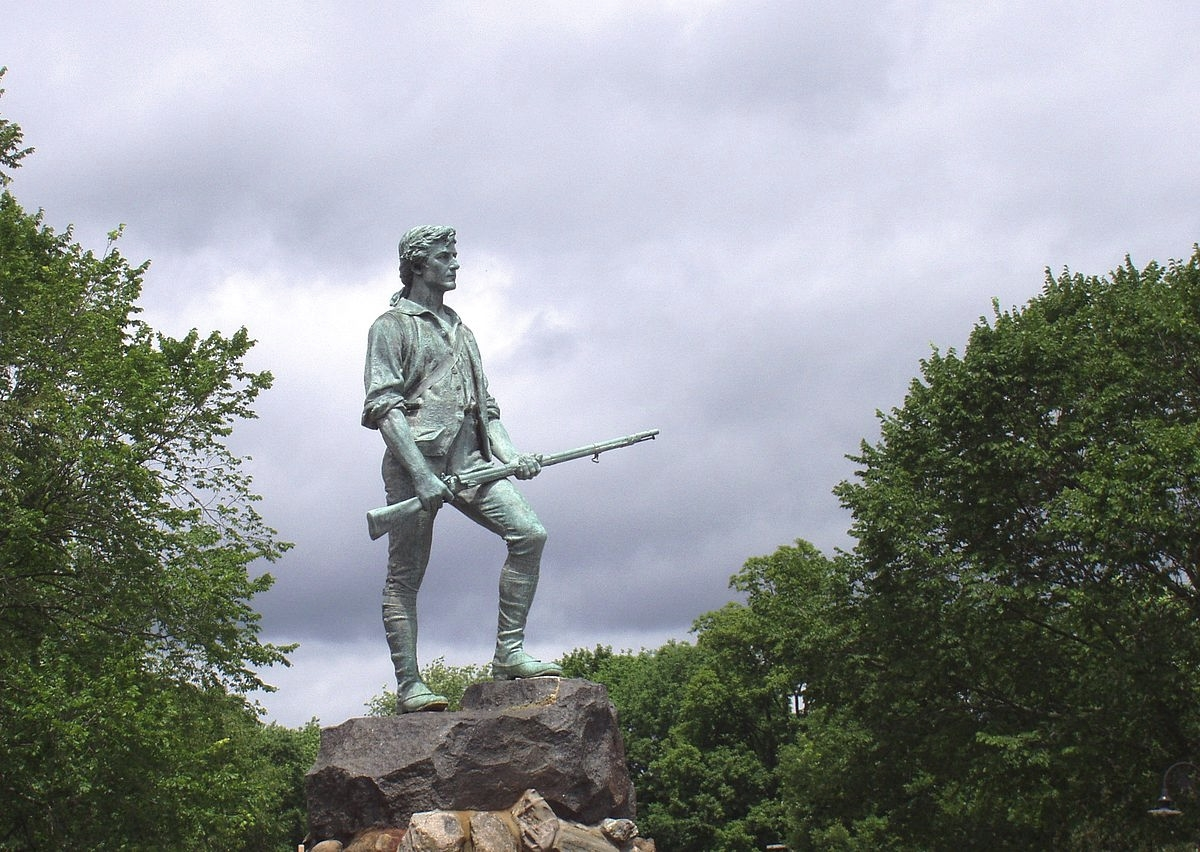
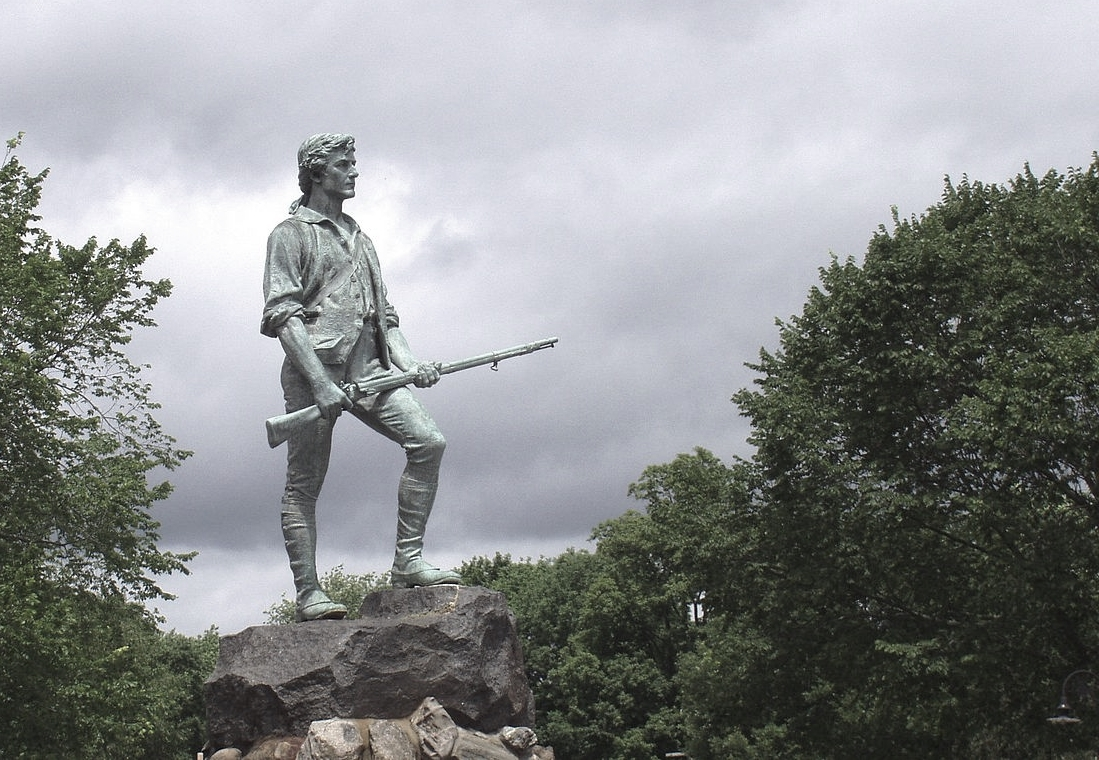
added styles, changed colors, added image

diff --git a/stylesheets/style.css b/stylesheets/style.css
@@ -894,7 +894,7 @@ textarea {
   line-height: inherit; }
 
 a {
-  color: #555555;
+  color: #7594e5;
   text-decoration: none; }
   a:hover, a:focus {
     color: #2a6496;
@@ -916,7 +916,7 @@ img {
   height: auto; }
 
 .img-rounded {
-  border-radius: 6px; }
+  border-radius: none; }
 
 .img-thumbnail {
   padding: 4px;
@@ -2352,7 +2352,7 @@ select[multiple].input-sm {
   padding: 10px 16px;
   font-size: 18px;
   line-height: 1.33;
-  border-radius: 6px; }
+  border-radius: none; }
 
 select.input-lg {
   height: 46px;
@@ -2679,7 +2679,7 @@ select[multiple].input-lg {
     background-color: white; }
 
 .btn-link {
-  color: #555555;
+  color: #7594e5;
   font-weight: normal;
   cursor: pointer;
   border-radius: 0; }
@@ -2701,7 +2701,7 @@ select[multiple].input-lg {
   padding: 10px 16px;
   font-size: 18px;
   line-height: 1.33;
-  border-radius: 6px; }
+  border-radius: none; }
 
 .btn-sm {
   padding: 5px 10px;
@@ -3107,7 +3107,7 @@ input[type="button"].btn-block {
         cursor: not-allowed; }
   .nav .open > a, .nav .open > a:hover, .nav .open > a:focus {
     background-color: #999999;
-    border-color: #555555; }
+    border-color: #7594e5; }
   .nav .nav-divider {
     height: 1px;
     margin: 9px 0;
@@ -3204,7 +3204,7 @@ input[type="button"].btn-block {
   padding: 30px;
   margin-bottom: 30px;
   color: inherit;
-  background-color: #eeeeee; }
+  background-color: rgba(255, 255, 255, 0.7); }
   .jumbotron h1,
   .jumbotron .h1 {
     color: inherit; }
@@ -3213,9 +3213,9 @@ input[type="button"].btn-block {
     font-size: 21px;
     font-weight: 200; }
   .jumbotron > hr {
-    border-top-color: #d5d5d5; }
+    border-top-color: rgba(230, 230, 230, 0.7); }
   .container .jumbotron {
-    border-radius: 6px; }
+    border-radius: none; }
   .jumbotron .container {
     max-width: 100%; }
   @media screen and (min-width: 768px) {
@@ -3270,6 +3270,10 @@ input[type="button"].btn-block {
     .top, footer {
       margin-top: 74px; } }
 
+footer {
+  font-size: 16px;
+  color: rgba(255, 255, 255, 0.65); }
+
 .logo {
   font-family: Intro, Avenir, Century Gothic, "Helvetica Neue", Helvetica, Arial, sans-serif;
   letter-spacing: 0.05em; }
@@ -3279,3 +3283,14 @@ body {
 
 .description {
   line-height: 1.6em; }
+
+.social {
+  margin-top: 25px;
+  margin-bottom: 0;
+  font-size: 18px;
+  color: #999999; }
+  @media (min-width: 992px) {
+    .social {
+      text-align: left; } }
+  .social a {
+    color: #999999; }

diff --git a/index.html b/index.html
@@ -16,14 +16,14 @@
 </head>
 
 <body>
-  <!-- <img src='images/minuteman.jpg' class='img-responsive' style='-webkit-filter: blur(30px);position: fixed; z-index: -1;width:100%; top: 0;'>
--->   
+ <img src='images/minuteman.jpg' class='img-responsive' style='-webkit-filter: blur(10px);position: fixed; z-index: -1;width:100%; top: 0;'>
 
-<!-- <header class="jumbotron text-center nav-container"> -->
-    <!-- <h1 class='logo'><i class='fa fa-thumbs-o-up' style='padding-right:0.2em'></i><div style='display: inline-block; -webkit-transform: scale(1.1,1.3);'>L</div>EX<span style=''><div style='display: inline-block; -webkit-transform: scale(1.1,1.3);'>H</div>ACK</span></h1> -->
-<div class="container top">
+
+ <!-- <header class="jumbotron text-center nav-container"> -->
+ <!-- <h1 class='logo'><i class='fa fa-thumbs-o-up' style='padding-right:0.2em'></i><div style='display: inline-block; -webkit-transform: scale(1.1,1.3);'>L</div>EX<span style=''><div style='display: inline-block; -webkit-transform: scale(1.1,1.3);'>H</div>ACK</span></h1> -->
+ <div class="container top">
   <header class="jumbotron text-center nav-container">
-    <h1 class='logo'><i class='fa fa-thumbs-o-up' style='padding-right:0.2em'></i><span style='font-size:78px;'>L</span>EX<span style=''><span style='font-size: 78px;'>H</span>ACK</span></h1>
+    <h1 class='logo'><i class='fa fa-compass' style='padding-right:0.2em;'></i><span style='font-size:1.15em'>L</span>EX<span style=''><span style='color:#F2B500;'><span style='font-size:1.15em'>H</span>ACK</span></span></h1>
     <div class='description'>
       <p><em>a hackathon for high schoolers</em></p>
       <p>Feb 29th @ LHS Field House</p>
@@ -36,14 +36,17 @@
       <li><a href="#">Sponsors</a></li>
       <li><a href="#">Contact</a></li>
     </ul>
-  </header>
+    <div class="social">
+     <a href="http://google.com"><i class="fa fa-google-plus-square"></i></a> &nbsp <a href="http://twitter.com"><i class="fa fa-twitter"></i></a> &nbsp <a href="http://facebook.com"><i class="fa fa-facebook-square"></i></a> &nbsp &nbsp #lexhack &nbsp #lexgo
+   </div>
+ </header>
 
-  <section>
-  </section>
+ <section>
+ </section>
 
-  <footer class='text-center'>
-    <p>&copy; LexHack 2014</p>
-  </footer>
+ <footer class='text-center'>
+  <p>&copy; LexHack 2014</p>
+</footer>
 
 </div>
 

diff --git a/stylesheets/_components.scss b/stylesheets/_components.scss
@@ -51,6 +51,8 @@ $lato-font: "Lato", "Helvetica Neue", Helvetica, Arial, sans-serif;
 
 footer {
 	@extend .top;
+	font-size: 16px;
+	color: rgba(255, 255, 255, 0.65);
 }
 
 .logo {
@@ -64,4 +66,19 @@ body {
 
 .description {
 	line-height: 1.6em;
+}
+
+.social {
+	margin-top: 25px;
+	// padding: 5px;
+	margin-bottom: 0;
+	font-size: 18px;
+	@media (min-width: $screen-md-min) {
+		text-align: left;
+	}
+	// text-align: left;
+	color: $gray-light;
+	a {
+		color: $gray-light;
+	}
 }

diff --git a/stylesheets/_variables.scss b/stylesheets/_variables.scss
@@ -1,9 +1,13 @@
 $icon-font-path: "../fonts/bootstrap/";
 
-$link-color: $gray;
+// $link-color: $gray;
+// $link-color: #5988FF;
+$link-color: #7594E5;
 
 $nav-link-hover-bg: $gray-light;
 $nav-open-link-hover-color: white;
 
 $nav-pills-border-radius: 8px;
 
+$jumbotron-bg: rgba(255, 255, 255, 0.7);
+$border-radius-large: none;
